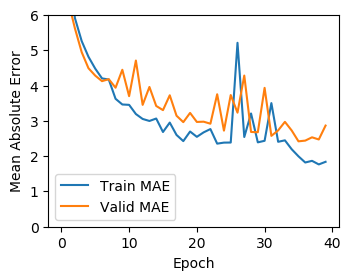
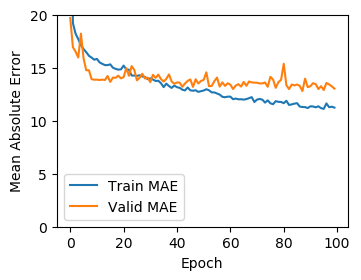
eddie's latest changes

diff --git a/src/neural_network/hyparameter_search.py b/src/neural_network/hyparameter_search.py
@@ -1,46 +1,40 @@
 import numpy as np
 import tensorflow as tf
 from tensorflow import keras as K
-from .neural_plotter import plot_history, plot_test
+from neural_plotter import plot_history
 import pickle
+import pandas as pd
 
-# https://medium.com/@rajatgupta310198/getting-started-with-neural-network-for-regression-and-tensorflow-58ad3bd75223
-# https://www.kaggle.com/zoupet/neural-network-model-for-house-prices-tensorflow
-# https://www.tensorflow.org/tutorials/keras/basic_regression
-
-def save_data(save_filename, save_obj):
-    print('\nSaving data...')
-    
-    with open(save_filename, 'wb') as fi:
-        pickle.dump(save_obj, fi)
-        
-    print('Save data complete. Object saved as:', save_filename)
-    
-def main(train_set, train_labels, valid_set, valid_labels, test_set, test_labels):
+def main():
     print("Running NN main")
 
     # See above for how to access the data and labels
     
-    # hyperparameters
-    layer_dims = [256, 192, 160, 160, 160, 1]
-    activations = ['relu', 'relu', 'relu', 'relu', 'relu', 'relu']
-    dropout = [0.1, 0.25, 0.1, 0.35, 0.50, 0]
-    lr = 1e-4
-    num_epochs = 100
-    batch_size = 64
+    hyps = pd.read_csv('hyperparameter_search.csv')
+    print (hyps)
+    hyps = np.array(hyps)
     
-    save_path = 'model-and-weights.h5'
+    num_layers = hyps[0, :]
+    
+    layer_dims = []
+    dropout = []
+    l2_reg = []
+    
+    for i in range(hyps.shape[1]):
+        layer_dims.append([])
+        dropout.append([])
+        l2_reg.append([])    
+        
+    for i in range(hyps.shape[1]):
+        layer_dims[i] = hyps[1:7, i]
+        dropout[i] = hyps[7:13, i]
+        l2_reg[i] = hyps[13:, i]
+        
+    num_layers_h, layer_dims_h, dropout_h, l2_reg_h = np.array(num_layers), np.array(layer_dims), np.array(dropout), np.array(l2_reg)
+    stats = np.zeros((4, 20))
     
     # initialize X, Y
-    X_train = train_set
-    X_valid = valid_set
-    X_test = test_set
-    
-    Y_train = train_labels
-    Y_valid = valid_labels
-    Y_test = test_labels
-    
-    # save_data('data.h5', [X_train, Y_train, X_valid, Y_valid, X_test, Y_test])
+    X_train, Y_train, X_valid, Y_valid, X_test, Y_test = open_data('data.h5')
 
     # convert to np and slice X, Y
     X_train, Y_train, X_valid, Y_valid, X_test, Y_test = convert2np(X_train, Y_train, X_valid, Y_valid, X_test, Y_test)
@@ -51,24 +45,46 @@ def main(train_set, train_labels, valid_set, valid_labels, test_set, test_labels
     
     # normalize features
     X_train, X_valid, X_test = norm_features(X_train, X_valid, X_test)
+
+    # hyperparameters
     
-    # build model
-    n_train = X_train.shape[1]
-    model = build_model(layer_dims, activations, dropout, n_train, lr)
+    batch_size = 256
+    lr = 0.001
+    activations = ['relu', 'relu', 'relu', 'relu', 'relu', 'relu']
+    num_epochs = 50
+    
+    for i in range(20):
+        num_layers = num_layers_h[i]
+        layer_dims = layer_dims_h[i, :]
+        dropout = dropout_h[i, :]
+    
+        # build model
+        n_train = X_train.shape[1]
+        model = build_model(layer_dims, activations, dropout, n_train, lr, num_layers)
+            
+        # train model
+        model, history = train_model(model, X_train, Y_train, X_valid, Y_valid, batch_size, num_epochs)
         
-    # train model
-    model, history = train_model(model, X_train, Y_train, X_valid, Y_valid, batch_size, num_epochs)
-    model.save(save_path)
+        # plot train/valid loss (outputs graphs of MSE, MAE, and R2 Coeff.)
+        print_stats(history)
+        plot_history(history)
+        stats[0, i] = min(history.history['loss'])
+        stats[1, i] = min(history.history['val_loss'])
+        stats[2, i] = max(history.history['r2_keras'])
+        stats[3, i] = max(history.history['val_r2_keras'])
     
-    # plot train/valid loss (outputs graphs of MSE, MAE, and R2 Coeff.)
-    print_stats(history)
-    plot_history(history)
+    np.savetxt('stats.csv', stats)
+
+def open_data(save_filename):
+    print('\nOpening', save_filename, '...')
     
-    # predict using model
-    predictions = model.predict(X_test, verbose = 0)
-        
-    # plot test results (outputs graphs of labels vs. predictions and histogram of prediction error)
-    plot_test(predictions, Y_test)
+    with open(save_filename, 'rb') as fi:
+        load_temp = pickle.load(fi)
+    loaded = load_temp      
+
+    print('Open data complete.')
+    
+    return loaded
 
 def convert2np(X_train, Y_train, X_valid, Y_valid, X_test, Y_test):
     
@@ -118,7 +134,7 @@ def norm_features(X_train, X_valid, X_test):
 
     return X_train, X_valid, X_test  
 
-def build_model(layer_dims, activations, dropout, n_train, lr):
+def build_model(layer_dims, activations, dropout, n_train, lr, num_layers):
     
     print ('\n---------------Building NN Model----------------')
     
@@ -128,11 +144,14 @@ def build_model(layer_dims, activations, dropout, n_train, lr):
     model = K.models.Sequential()
     
     model.add(K.layers.Dense(layer_dims[0], input_dim = n_train))
+    model.add(K.layers.Dropout(dropout[0]))
     model.add(K.layers.Activation(activations[0]))
-    for i in range(1, len(layer_dims)):
+    for i in range(1, int(num_layers)):
         model.add(K.layers.Dense(layer_dims[i]))
         model.add(K.layers.Dropout(dropout[i]))
         model.add(K.layers.Activation(activations[i]))
+    model.add(K.layers.Dense(1))
+    model.add(K.layers.Activation('relu'))
 
 #    model.compile(loss = 'mse', optimizer = K.optimizers.Adam(lr), metrics = ['mae'])
     model.compile(loss = 'mse', optimizer = K.optimizers.Adam(lr), metrics = ['mae', r2_keras])
@@ -174,4 +193,4 @@ def r2_keras(y_true, y_pred):
     return ( 1 - SS_res/(SS_tot + K.backend.epsilon()) )
     
 if __name__ == '__main__':
-    print("Please use `python run.py --nn` to run this model")
+    main()

diff --git a/src/neural_network/neural_plotter.py b/src/neural_network/neural_plotter.py
@@ -18,7 +18,7 @@ def plot_history(history):
     plt.legend()
     plt.xlabel('Epoch')
     plt.ylabel('Loss: Mean Squared Error')
-    plt.ylim([0, 500])
+    plt.ylim([0, 8000])
     plt.savefig('fig1.png', bbox_inches="tight")
 
     plt.figure(1, figsize=(3.75, 2.75))
@@ -27,14 +27,14 @@ def plot_history(history):
     plt.legend()
     plt.xlabel('Epoch')
     plt.ylabel('Mean Absolute Error')
-    plt.ylim([0, 6])
+    plt.ylim([0, 20])
     plt.savefig('fig2.png', bbox_inches="tight")
 
     plt.figure(2, figsize=(3.75, 2.75))
     plt.plot(epoch, train_r2, label = 'Train R2')
     plt.plot(epoch, val_r2, label = 'Valid R2')
     plt.legend()
-    plt.ylim([0.9, 1])
+    plt.ylim([0.7, 1])
     plt.xlabel('Epoch')
     plt.ylabel('R2 Coeff')
     plt.savefig('fig3.png', bbox_inches="tight")
@@ -56,7 +56,10 @@ def plot_test(predictions, Y_test):
     
     plt.figure(4, figsize=(3.75, 2.75))
     error = predictions - Y_test
-    plt.hist(error, bins = 10)
+    error = error[error > -200]
+    error = error[error < 200]
+    
+    plt.hist(error, bins = 20)
     plt.xlabel("Prediction Error")
     plt.ylabel("Count") 
     plt.savefig('fig5.png', bbox_inches="tight")
